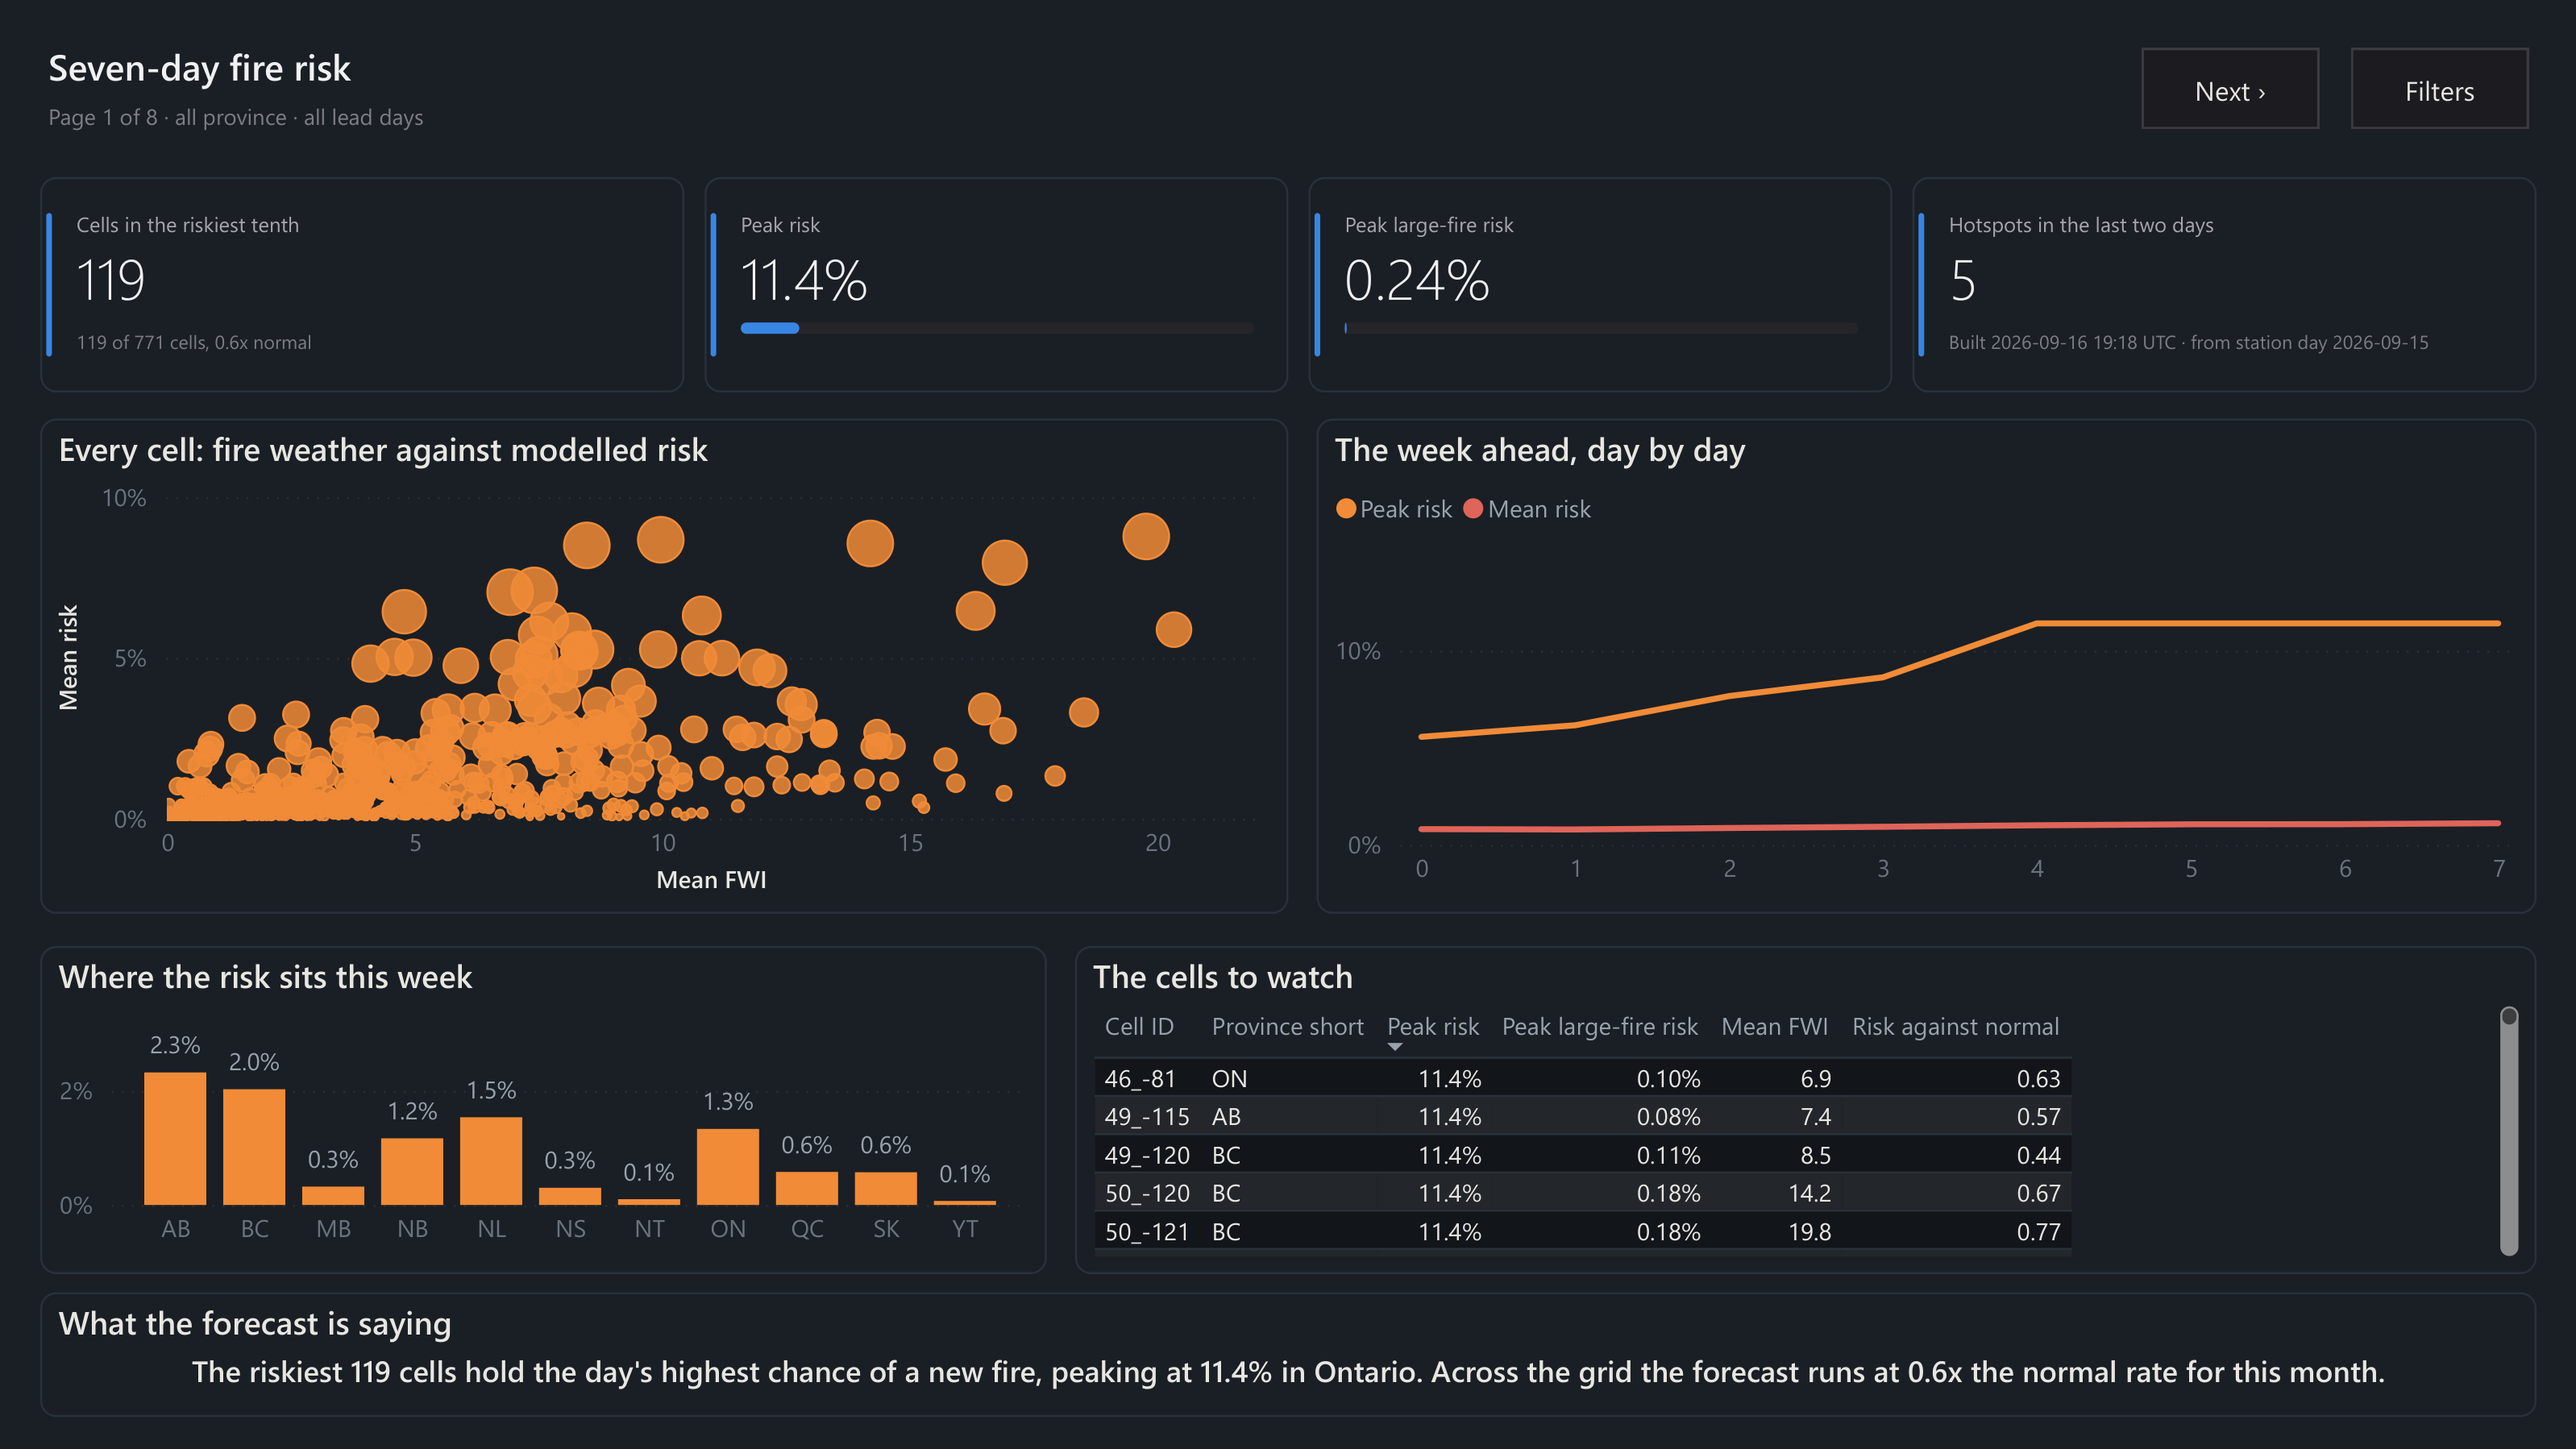
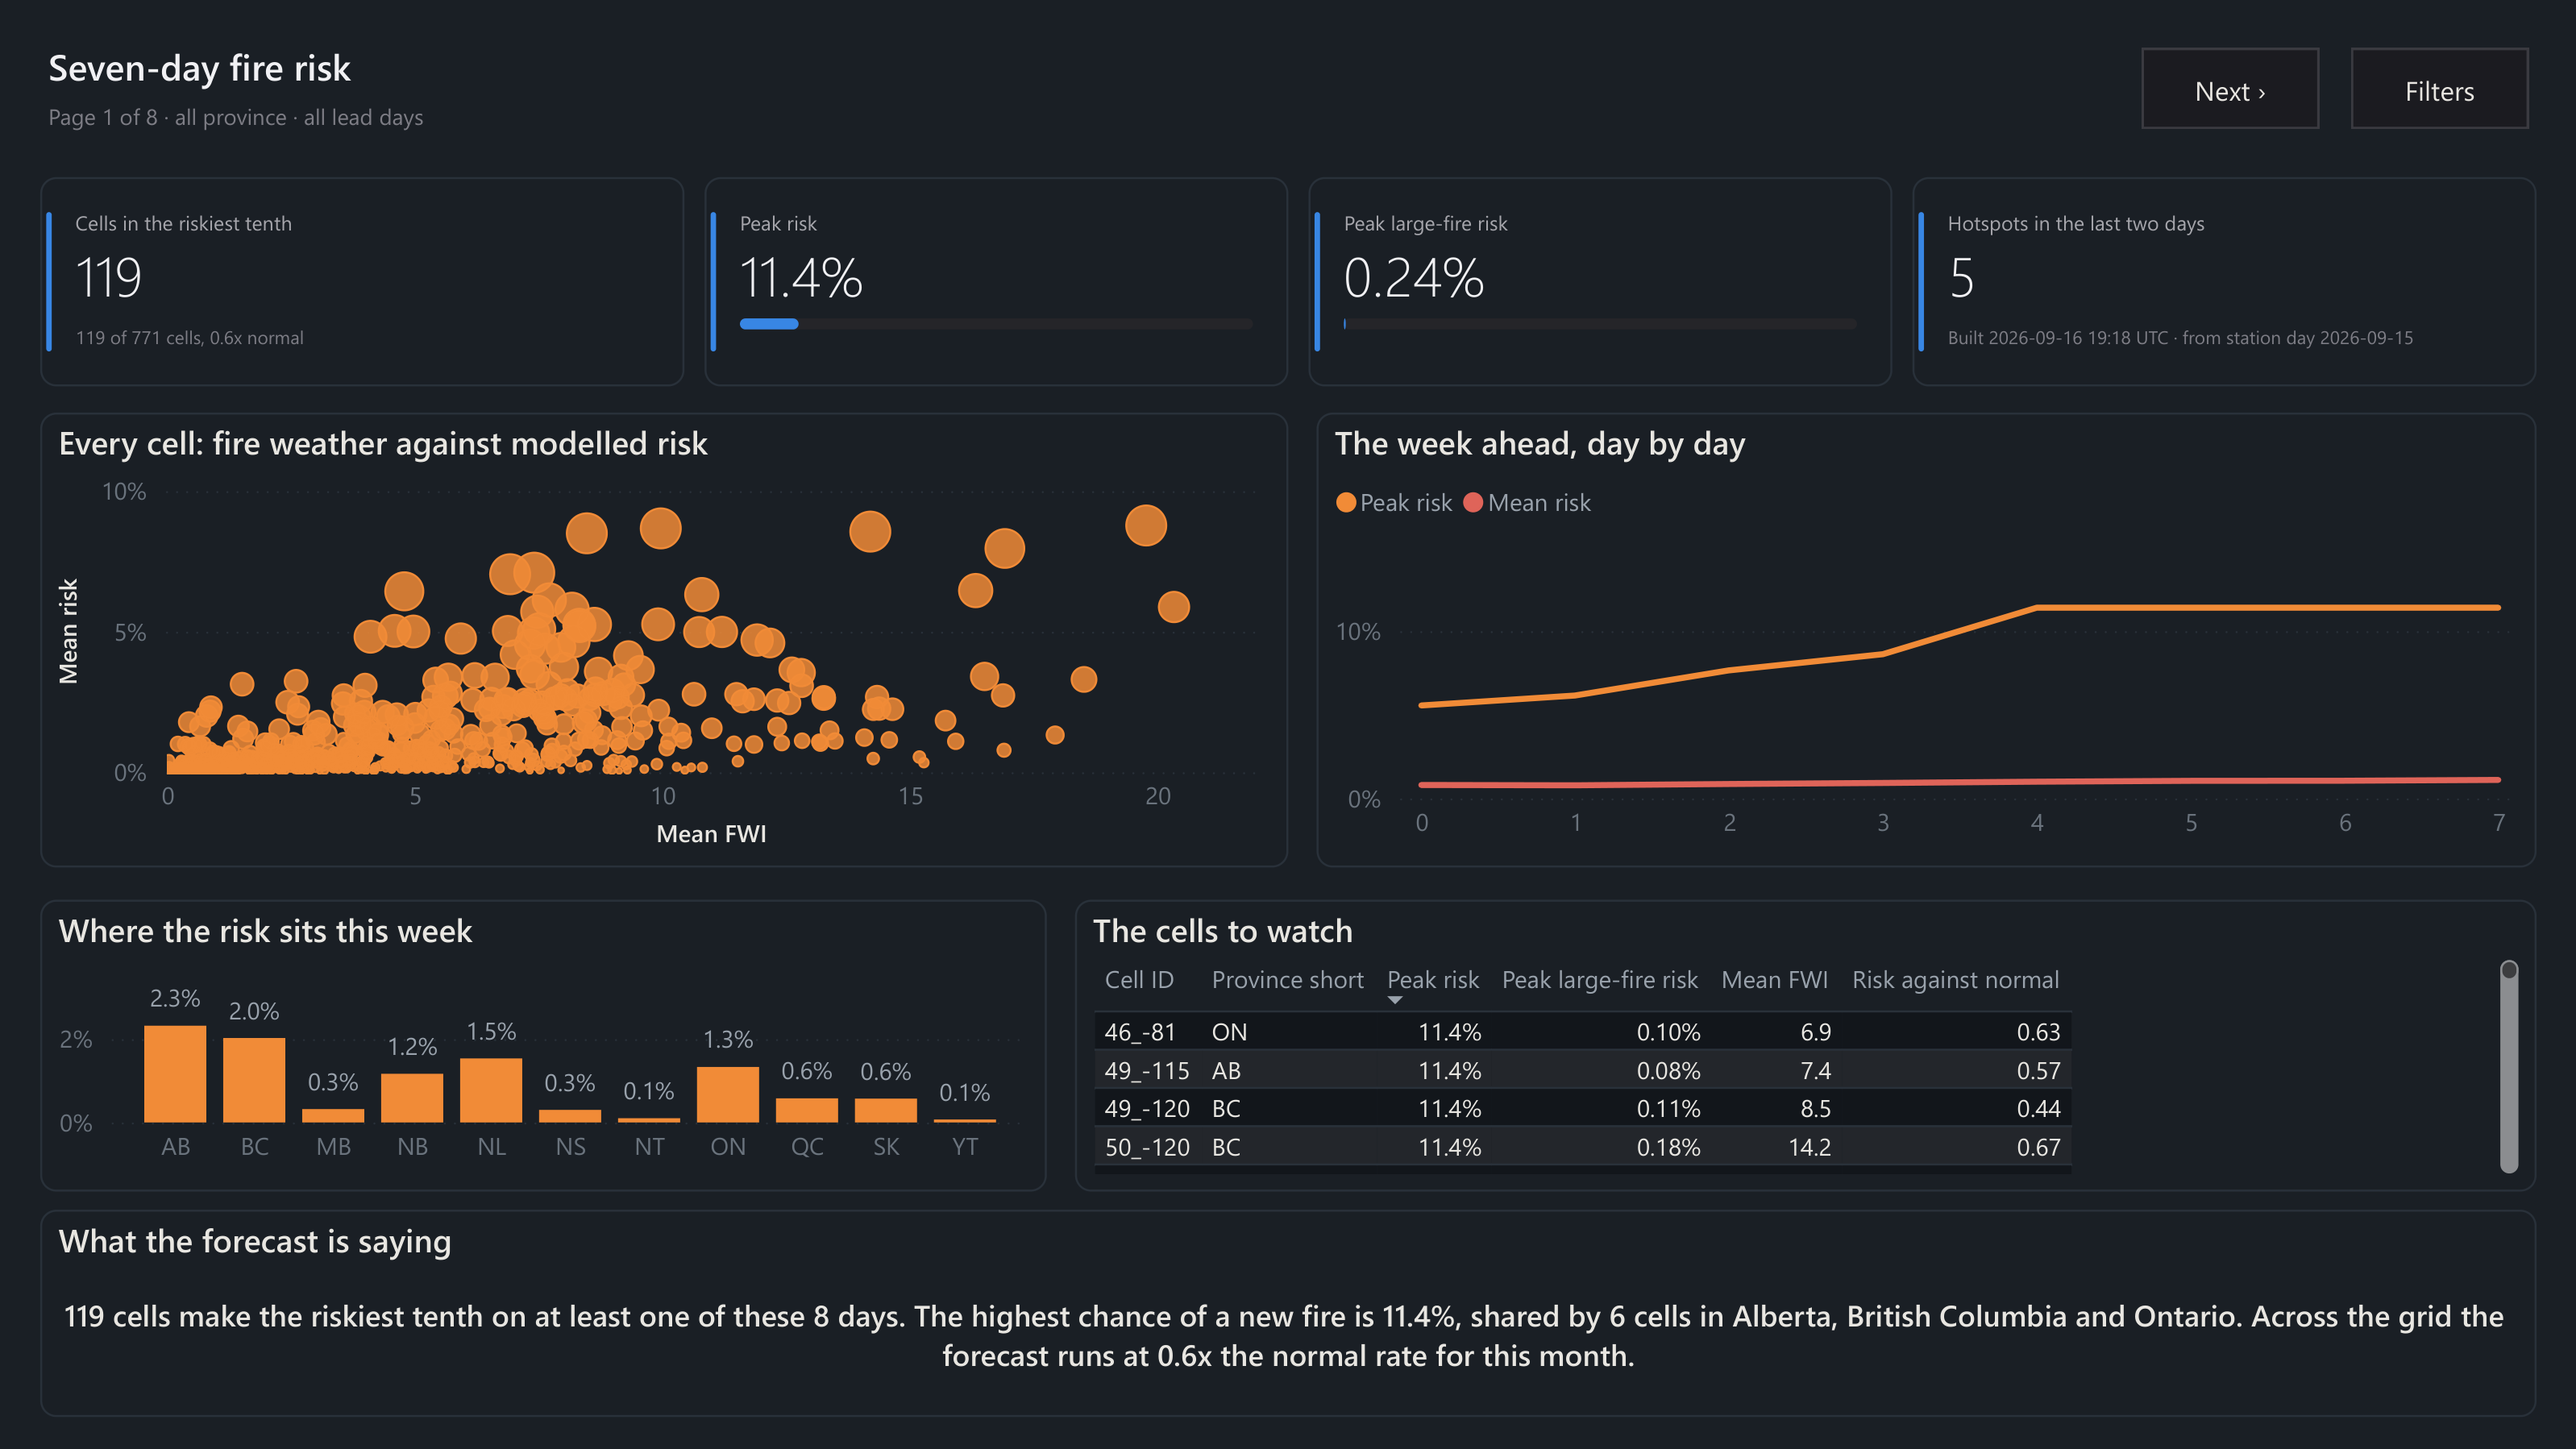
Name every province at the peak, not whichever cell sorts first
Calibrated risk comes in plateaus - the published forecast holds 78
distinct values over 6,168 cell-days - so the day's peak is usually
shared. The verdict took one cell with TOPN(1), broke the tie by cell
id, and said "peaking at 11.4% in Ontario" while six cells in Alberta,
British Columbia and Ontario were all at 11.4%. It also called 119 cells
"the day's" riskiest tenth when that was eight days' worth; a day's
tenth is 78.

The sentence now names every province at the peak, says how many cells
share it, distinguishes one day from several, and goes blank rather than
printing "The riskiest  cells ... peaking at ." when a filter leaves
nothing. Its tile is two lines tall, because three province names do not
fit on one, and page 1 was re-exported.

diff --git a/powerbi/report_spec.py b/powerbi/report_spec.py
@@ -58,13 +58,13 @@ PAGES: list[dict] = [
             {"type": "scatter", "category": "dim_cell[cell_id]", "x": "[Mean FWI]",
              "y": ["[Mean risk]"], "size": "[Peak risk]",
              "title": "Every cell: fire weather against modelled risk",
-             "pos": (20, ROW1_Y, 620, 272),
+             "pos": (20, ROW1_Y, 620, 256),
              "alt": "Scatter chart titled Every cell: fire weather against modelled risk. "
                     "One point per grid cell, plotting mean risk against mean Fire Weather "
                     "Index over the forecast week, sized by the cell's peak risk."},
             {"type": "line", "x": "fact_forecast[lead_days]", "y": ["[Peak risk]", "[Mean risk]"],
              "title": "The week ahead, day by day",
-             "pos": (654, ROW1_Y, 606, 272),
+             "pos": (654, ROW1_Y, 606, 256),
              "alt": "Line chart titled The week ahead day by day. Plots the peak and the "
                     "mean chance of a new fire by lead day, from the latest observed station "
                     "day through seven forecast days. Both are probabilities, so they share "
@@ -72,7 +72,7 @@ PAGES: list[dict] = [
 
             {"type": "column", "x": "dim_province[province_short]", "y": ["[Mean risk]"],
              "title": "Where the risk sits this week",
-             "pos": (20, ROW2_Y, 500, 180),
+             "pos": (20, ROW2_Y - 16, 500, 164),
              "alt": "Bar chart titled Where the risk sits this week. Plots mean risk by "
                     "province or territory."},
             {"type": "table",
@@ -81,22 +81,24 @@ PAGES: list[dict] = [
              "sort": ("[Peak risk]", "Descending"),
              "totals": False,
              "title": "The cells to watch",
-             "pos": (534, ROW2_Y, 726, 180),
+             "pos": (534, ROW2_Y - 16, 726, 164),
              "alt": "Table titled The cells to watch. Lists each grid cell with its peak "
                     "new-fire risk, peak large-fire risk, mean Fire Weather Index and how "
                     "that risk compares with the cell's normal rate for the month."},
 
             {"type": "narrative", "field": "[Forecast verdict]",
              "title": "What the forecast is saying",
-             "pos": (20, ROW2_Y + 190, FULL_W, 68),
+             # Two lines: the sentence names every province at the peak, and
+             # three long names do not fit on one.
+             "pos": (20, ROW2_Y + 158, FULL_W, 116),
              "alt": "Narrative. A sentence generated from the measures on this page: how "
                     "many cells are in the day's riskiest tenth, the peak risk and where it "
                     "is, and how the week compares with the normal rate for the month."},
             {"type": "slicer", "field": "dim_province[province]", "title": "Province or territory",
-             "pos": (1068, ROW2_Y, 192, 76),
+             "pos": (1068, ROW2_Y - 16, 192, 76),
              "alt": "Slicer. Filters the page by province or territory."},
             {"type": "slicer", "field": "fact_forecast[lead_days]", "title": "Lead day",
-             "pos": (1068, ROW2_Y + 86, 192, 76),
+             "pos": (1068, ROW2_Y + 70, 192, 76),
              "alt": "Slicer. Filters the page by lead day, 0 for the latest observed day."},
         ],
     },

diff --git a/powerbi/model_spec.py b/powerbi/model_spec.py
@@ -318,18 +318,40 @@ MEASURES: list[tuple[str, str, str, str]] = [
      "", "07 Reference"),
 
     # --- the verdict each page opens with ----------------------------------
+    # Calibrated risk comes in plateaus, so the peak is usually shared: on the
+    # 16 September forecast six cells in three provinces sat at 11.4%, and a
+    # TOPN(1) broken by cell id named Ontario alone. Every province at the
+    # peak is named. And the riskiest tenth is 78 cells a day; over a week it
+    # is however many cells made it on any day, which is what gets said.
     ("Forecast verdict",
      "VAR vCells = [Cells in the riskiest tenth]\n"
+     "VAR vDays = DISTINCTCOUNT(fact_forecast[date])\n"
      "VAR vPeak = [Peak risk]\n"
      "VAR vNormal = [Risk against normal]\n"
-     "VAR vTop =\n"
-     "    MAXX(TOPN(1, VALUES(fact_forecast[cell_id]), [Peak risk], DESC, fact_forecast[cell_id], ASC),"
-     " CALCULATE(SELECTEDVALUE(fact_forecast[province])))\n"
+     "VAR vAtPeak = FILTER(VALUES(fact_forecast[cell_id]), [Peak risk] = vPeak)\n"
+     "VAR vPeakCells = COUNTROWS(vAtPeak)\n"
+     "VAR vPlaces = CALCULATETABLE(VALUES(fact_forecast[province]), vAtPeak)\n"
+     "VAR vPlaceCount = COUNTROWS(vPlaces)\n"
+     "VAR vFirst = CONCATENATEX(TOPN(1, vPlaces, fact_forecast[province], ASC), fact_forecast[province])\n"
+     "VAR vLast = CONCATENATEX(TOPN(1, vPlaces, fact_forecast[province], DESC), fact_forecast[province])\n"
+     "VAR vMiddle = CONCATENATEX(FILTER(vPlaces, fact_forecast[province] <> vFirst"
+     " && fact_forecast[province] <> vLast), fact_forecast[province], \", \", fact_forecast[province], ASC)\n"
+     "VAR vWhere = SWITCH(TRUE(),\n"
+     "    vPlaceCount = 1, vFirst,\n"
+     "    vPlaceCount = 2, vFirst & \" and \" & vLast,\n"
+     "    vPlaceCount = 3, vFirst & \", \" & vMiddle & \" and \" & vLast,\n"
+     "    FORMAT(vPlaceCount, \"0\") & \" provinces and territories\")\n"
      "RETURN\n"
-     "    \"The riskiest \" & FORMAT(vCells, \"#,0\") & \" cells hold the day's highest chance of a new fire,\""
-     " & \" peaking at \" & FORMAT(vPeak, \"0.0%\") & IF(ISBLANK(vTop), \"\", \" in \" & vTop)"
-     " & \". Across the grid the forecast runs at \" & FORMAT(vNormal, \"0.0\")"
-     " & \"x the normal rate for this month.\"",
+     "    IF(ISBLANK(vPeak), BLANK(),\n"
+     "        IF(vDays = 1,\n"
+     "            FORMAT(vCells, \"#,0\") & \" cells make the day's riskiest tenth\",\n"
+     "            FORMAT(vCells, \"#,0\") & \" cells make the riskiest tenth on at least one of these \""
+     " & FORMAT(vDays, \"0\") & \" days\")\n"
+     "        & \". The highest chance of a new fire is \" & FORMAT(vPeak, \"0.0%\")\n"
+     "        & IF(vPeakCells > 1, \", shared by \" & FORMAT(vPeakCells, \"0\") & \" cells in \", \" in \")"
+     " & vWhere\n"
+     "        & \". Across the grid the forecast runs at \" & FORMAT(vNormal, \"0.0\")"
+     " & \"x the normal rate for this month.\")",
      "", "08 Verdict"),
     ("Backtest verdict",
      "\"Ranked fresh every morning, the riskiest tenth of cells held \" & FORMAT([Same-day capture], \"0.0%\")"

diff --git a/tests/test_the_dashboard_binds_what_it_reads.py b/tests/test_the_dashboard_binds_what_it_reads.py
@@ -238,6 +238,24 @@ def test_each_headline_names_the_slice_it_shows():
             assert 'method] = "model"' in dax or 'method] = "model"' in dax.replace(" ", ""), name
 
 
+def test_the_forecast_verdict_names_every_province_at_the_peak(headers):
+    """Calibrated risk comes in plateaus, so the day's peak is usually shared.
+    On the 16 September forecast six cells in Alberta, British Columbia and
+    Ontario sat at 11.4%; the verdict took one cell with TOPN(1), broke the tie
+    by cell id, and said Ontario. It also called 119 cells "the day's" riskiest
+    when that was eight days' worth: a day's tenth is 78."""
+    dax = {name: expression for name, expression, *_ in MEASURES}["Forecast verdict"]
+    assert "TOPN(1, VALUES(fact_forecast[cell_id])" not in dax
+    assert "[Peak risk] = vPeak" in dax, "the cells at the peak are all of them"
+    assert "CONCATENATEX" in dax and "VALUES(fact_forecast[province])" in dax
+    assert "on at least one of these" in dax, "several days are not one day"
+
+    forecast = pd.read_csv(DATA / "fact_forecast.csv", usecols=["date", "risk"])
+    assert forecast["risk"].nunique() < len(forecast) / 10, (
+        "isotonic calibration should leave plateaus; if it no longer does, "
+        "this test's premise has changed")
+
+
 def test_the_committed_project_matches_the_spec(tmp_path):
     """`python -m powerbi.build_pbip` is the only way the project is written; a
     hand-edit in Desktop would be silently overwritten by the next build."""

diff --git a/README.md b/README.md
@@ -1,7 +1,7 @@
 # Canada Wildfire Risk
 
 [![CI](https://github.com/KushPatel29/wildfire-prediction-app/actions/workflows/ci.yml/badge.svg)](https://github.com/KushPatel29/wildfire-prediction-app/actions/workflows/ci.yml)
-![Tests](https://img.shields.io/badge/tests-107%20passing-3B8C6E)
+![Tests](https://img.shields.io/badge/tests-108%20passing-3B8C6E)
 ![Model](https://img.shields.io/badge/ROC--AUC-0.807%20out%20of%20time-F28C38)
 ![Data](https://img.shields.io/badge/NFDB%20%2B%20CWFIS-4.1M%20cell--days-0B5FA5)
 ![Streamlit](https://img.shields.io/badge/Streamlit-live%20forecast-FF4B4B?logo=streamlit&logoColor=white)
